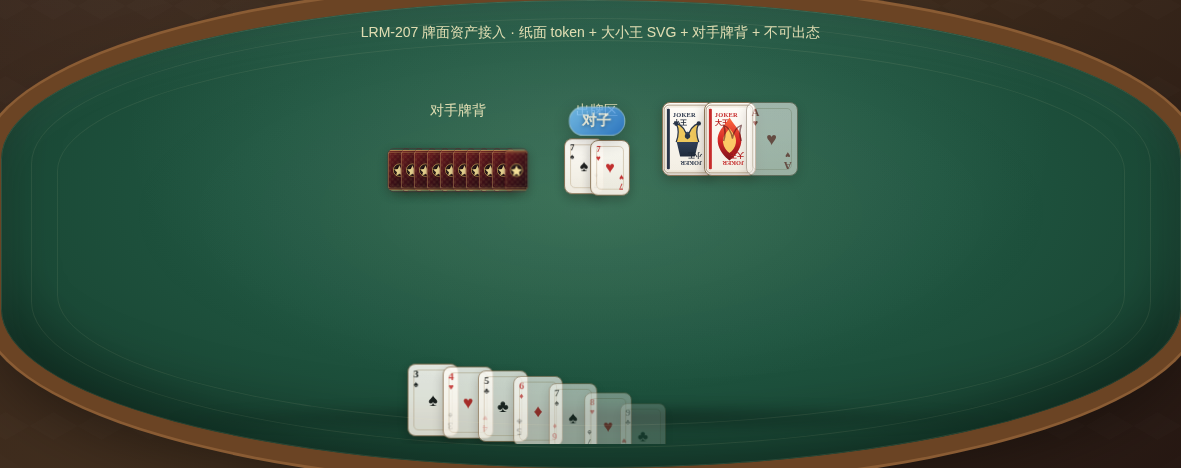
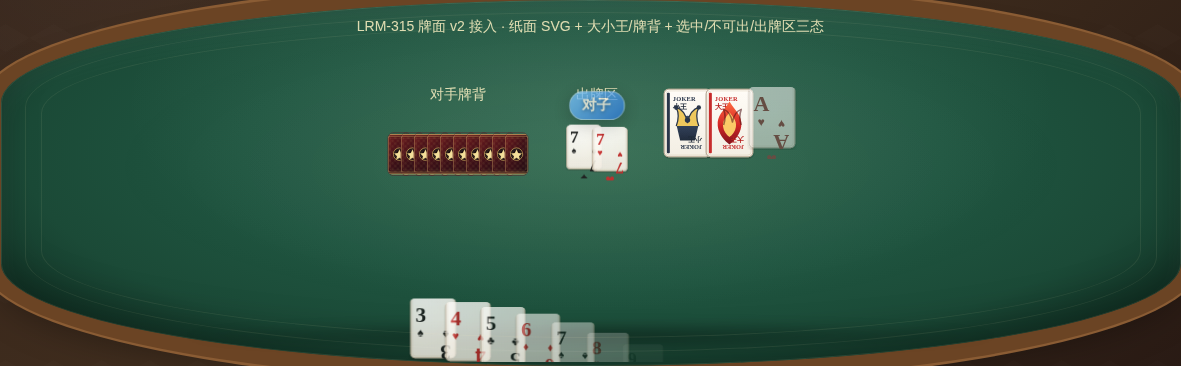
feat(client): 扑克牌 v2 纸面 SVG 接入 CardView (LRM-315)
普通牌改用 card-paper.svg 母版 + 角标叠字，对齐 LRM-313 v2 质感；保留选中/不可出/出牌区三态与 52×74 尺寸。

diff --git a/apps/client/src/styles.css b/apps/client/src/styles.css
@@ -1572,17 +1572,15 @@ body::before {
   background: linear-gradient(180deg, #4d8cff, #2d6cdf);
 }
 
-/* Cards — LRM-207：纸面 token + 资产接线（模板/王/背） */
+/* Cards — LRM-207/315：v2 纸面 SVG + 角标叠字 + 王/背全图 */
 .card {
   position: relative;
   width: var(--ddz-card-w);
   height: var(--ddz-card-h);
   margin-left: -18px;
-  border: 1px solid var(--ddz-card-stroke);
+  border: 1px solid transparent;
   border-radius: var(--ddz-radius-card);
-  background:
-    linear-gradient(180deg, var(--ddz-card-paper-0) 0%, var(--ddz-card-paper-1) 45%, var(--ddz-card-paper-2) 100%),
-    var(--ddz-paper);
+  background: transparent;
   color: var(--ddz-suit-ink);
   display: flex;
   flex-direction: column;
@@ -1591,7 +1589,7 @@ body::before {
   gap: 0;
   cursor: pointer;
   transition: transform 100ms ease, box-shadow 100ms ease, border-color 100ms ease, filter 120ms ease, opacity 120ms ease;
-  box-shadow: var(--ddz-card-shadow);
+  box-shadow: none;
   padding: 0;
   font-family: Georgia, 'Times New Roman', Times, 'Microsoft YaHei', serif;
   overflow: hidden;
@@ -1600,14 +1598,7 @@ body::before {
   margin-left: 0;
 }
 .card::after {
-  content: '';
-  position: absolute;
-  inset: 5px;
-  border-radius: 5px;
-  border: 1px solid var(--ddz-card-inner-stroke);
-  pointer-events: none;
-  opacity: 0.9;
-  z-index: 1;
+  display: none;
 }
 .card:hover:not(:disabled) {
   /* 手牌区抬起由 .hand .card 的 --card-lift 负责，避免此处 transform 盖掉 */
@@ -1619,6 +1610,10 @@ body::before {
   box-shadow: var(--ddz-glow-gold), 0 12px 18px rgba(0, 0, 0, 0.35);
   z-index: 3;
 }
+.card.is-selected .card-front-art,
+.card.is-selected .card-joker-art {
+  filter: drop-shadow(0 0 6px rgba(246, 198, 91, 0.45));
+}
 .card:disabled {
   cursor: default;
 }
@@ -1629,13 +1624,14 @@ body::before {
   color: var(--ddz-suit-ink);
 }
 .card.is-joker {
-  background: var(--ddz-card-paper-0);
+  background: transparent;
 }
 .card.is-joker::after,
 .card.is-face-down::after {
   display: none;
 }
 .card-joker-art,
+.card-front-art,
 .card-back-art {
   width: 100%;
   height: 100%;
@@ -1672,21 +1668,22 @@ body::before {
   pointer-events: none;
 }
 .card-corner.top {
-  top: 4px;
-  left: 5px;
+  top: 6px;
+  left: 7px;
 }
 .card-corner.bottom {
-  right: 5px;
-  bottom: 4px;
+  right: 7px;
+  bottom: 6px;
   transform: rotate(180deg);
 }
 .card-corner-rank {
-  font-size: 11px;
+  font-size: 22px;
   font-weight: 800;
   letter-spacing: -0.03em;
+  line-height: 1;
 }
 .card-corner-suit {
-  font-size: 9px;
+  font-size: 12px;
   line-height: 1;
   margin-top: 1px;
 }
@@ -1702,10 +1699,18 @@ body::before {
   font-size: 16px;
 }
 .card.is-small .card-corner-rank {
-  font-size: 9px;
+  font-size: 17px;
 }
 .card.is-small .card-corner-suit {
-  font-size: 8px;
+  font-size: 9px;
+}
+.card.is-small .card-corner.top {
+  top: 4px;
+  left: 5px;
+}
+.card.is-small .card-corner.bottom {
+  right: 5px;
+  bottom: 4px;
 }
 
 /* 对手牌背扇：可见资产，非纯数字占位 */
@@ -2493,7 +2498,7 @@ body::before {
     margin-left: -12px;
   }
   .card-corner-rank {
-    font-size: 10px;
+    font-size: 15px;
   }
   .card-suit-center {
     font-size: 16px;

diff --git a/apps/client/e2e/lrm315-card-v2.spec.ts b/apps/client/e2e/lrm315-card-v2.spec.ts
@@ -1,0 +1,29 @@
+import { test, expect } from '@playwright/test';
+import fs from 'node:fs';
+import path from 'node:path';
+import { fileURLToPath } from 'node:url';
+
+const __dirname = path.dirname(fileURLToPath(import.meta.url));
+const outDir = path.resolve(__dirname, '../../../docs/assets/previews/lrm-315');
+
+test('LRM-315 card v2 fx-demo screenshots', async ({ page }) => {
+  fs.mkdirSync(outDir, { recursive: true });
+  await page.goto('/fx-demo?scene=cards');
+  await expect(page.locator('[data-fx="cards"]')).toBeVisible({ timeout: 15_000 });
+  await expect(page.locator('.card-front-art').first()).toBeVisible();
+  await expect(page.locator('.opponent-back-fan .card.is-face-down').first()).toBeVisible();
+  await expect(page.locator('.card-joker-art').first()).toBeVisible();
+  await expect(page.locator('.card.is-unplayable')).toBeVisible();
+  await expect(page.locator('.hand .card.is-selected').first()).toBeVisible();
+  await expect(page.locator('.seat-play-cards .card.is-table-play').first()).toBeVisible();
+
+  await page.locator('[data-fx="cards"]').screenshot({
+    path: path.join(outDir, '01-cards-hand-play-backs.png'),
+  });
+  await page.locator('.hand').screenshot({
+    path: path.join(outDir, '02-hand-selected.png'),
+  });
+  await page.locator('.seat-play-cards').first().screenshot({
+    path: path.join(outDir, '03-play-zone.png'),
+  });
+});

diff --git a/apps/client/src/components/CardView.tsx b/apps/client/src/components/CardView.tsx
@@ -17,7 +17,7 @@ interface Props {
   style?: CSSProperties;
 }
 
-/** LRM-207：纸面 token + 大小王/牌背 SVG 资产，不再用纯 CSS 色块占位。 */
+/** LRM-207/315：v2 纸面 SVG + 组件角标；大小王/牌背全图资产。 */
 export function CardView({
   card,
   selected,
@@ -68,6 +68,7 @@ export function CardView({
         <img className="card-joker-art" src={jokerAsset} alt="" aria-hidden="true" />
       ) : (
         <>
+          <img className="card-front-art" src="/cards/card-paper.svg" alt="" aria-hidden="true" />
           <span className="card-corner top">
             <span className="card-corner-rank">{card.display}</span>
             {symbol ? <span className="card-corner-suit">{symbol}</span> : null}

diff --git a/apps/client/src/components/FxDemo.tsx b/apps/client/src/components/FxDemo.tsx
@@ -346,7 +346,7 @@ export function FxDemo() {
       {scene === 'cards' && (
         <div className="table fx-demo-table" data-fx="cards" data-scene="cards">
           <p className="fx-demo-caption">
-            LRM-207 牌面资产接入 · 纸面 token + 大小王 SVG + 对手牌背 + 不可出态
+            LRM-315 牌面 v2 接入 · 纸面 SVG + 大小王/牌背 + 选中/不可出/出牌区三态
           </p>
           <div className="fx-demo-seats" style={{ alignItems: 'flex-start', gap: 32 }}>
             <div>

diff --git a/docs/assets/cards/LICENSE.md b/docs/assets/cards/LICENSE.md
@@ -4,6 +4,7 @@
 - 许可：团队内部可商用；可修改、可再分发于本项目
 - 边界：仅对标「欢乐斗地主」纸质感/信息层级体验，**不包含**腾讯原图、商标或可识别抄袭元素
 - 文件：
+  - `apps/client/public/cards/card-paper.svg`（v2 纸面母版，无点数/花色）
   - `apps/client/public/cards/card-front-template.svg`
   - `apps/client/public/cards/card-back.svg`
   - `apps/client/public/cards/joker-big.svg`